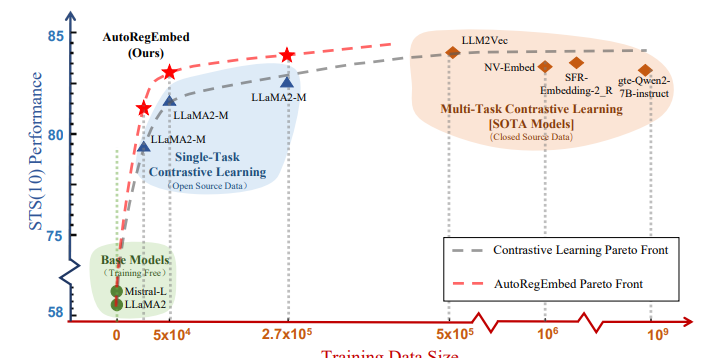
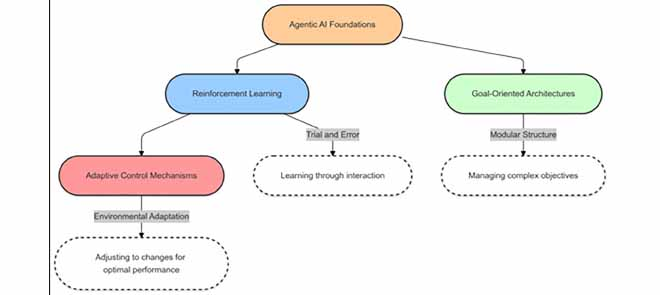
picture

diff --git a/research.md b/research.md
@@ -50,7 +50,6 @@
     - [Utilité principale](#utilité-principale)
     - [Fonctionnalités](#fonctionnalités)
     - [Spécificité d’implémentation](#spécificité-dimplémentation)
-    - [Exemple : agent ReAct avec LangChain](#exemple--agent-react-avec-langchain)
     - [Exemple : workflow multi‑turn avec LangGraph](#exemple--workflow-multiturn-avec-langgraph)
   - [CrewAI](#crewai)
     - [Présentation](#présentation-1)
@@ -64,15 +63,11 @@
     - [Présentation](#présentation-2)
     - [Utilité principale](#utilité-principale-2)
     - [Fonctionnalités](#fonctionnalités-2)
-    - [Spécificité d’implémentation](#spécificité-dimplémentation-2)
-    - [Exemple conceptuel : orchestrateur multi‑agent](#exemple-conceptuel--orchestrateur-multiagent)
   - [LlamaIndex](#llamaindex)
     - [Présentation](#présentation-3)
-    - [Utilité principale](#utilité-principale-3)
     - [Fonctionnalités](#fonctionnalités-3)
-    - [Spécificité d’implémentation](#spécificité-dimplémentation-3)
+    - [Spécificité d’implémentation](#spécificité-dimplémentation-2)
     - [Exemple : index vectoriel simple avec LlamaIndex](#exemple--index-vectoriel-simple-avec-llamaindex)
-  - [Comparaison d’usage](#comparaison-dusage)
   - [Références](#références)
 
 ***
@@ -243,7 +238,6 @@ Dans les approches de type **GraphRAG**, les documents sont analysés pour produ
 
 ### Fonctionnement
 Le pipeline inclut généralement l’extraction guidée par LLM, la normalisation des entités, la détection de communautés, la génération de résumés structurés, puis la récupération ciblée au moment de la requête. Cette approche est puissante, mais elle dépend fortement de la qualité des prompts, des stratégies de consolidation et des étapes de validation appliquées au graphe produit. Dans un cadre multi‑agent comme CrewAI, il est possible de répartir ces rôles entre agents spécialisés (extraction, détection de communautés, validation, génération de résumés) afin de limiter les erreurs massives.
-![alt text](image-2.png)
 
 ## Indexation par graphe
 
@@ -290,72 +284,37 @@ Les frameworks agentiques jouent un rôle central dans la mise en œuvre d’ass
 
 ## Vue d’ensemble
 
-| Framework        | Utilité principale                                                       | Fonctionnalités marquantes                                                  | Spécificité d’implémentation                                                                    | Intégration dans d’autres outils                                                 | Dernières évolutions visibles                                              |
-| ---------------- | ------------------------------------------------------------------------ | --------------------------------------------------------------------------- | ----------------------------------------------------------------------------------------------- | -------------------------------------------------------------------------------- | -------------------------------------------------------------------------- |
-| **LangChain**    | Construire des applications et agents LLM généralistes [1][5]            | Agents, tools, prompts, middleware, structured output [1][6][5]             | Approche surtout **programmatique**, orientée classes et objets Python/JS [7][5]                | Très intégré dans l’écosystème RAG, providers et plateformes LLM [2][8]          | Milestones v1.0 annoncés en avril 2026 [1]                                 |
-| **LangGraph**    | Orchestrer des workflows agentiques sous forme de graphes d’états [1][9] | State machine, boucles, transitions, persistance, human‑in‑the‑loop [10][9] | Définition d’un **graphe** de nœuds et de transitions en code [10][9]                           | Souvent utilisé avec LangChain comme moteur d’exécution contrôlé [1][10]         | Intégré à la trajectoire v1.0 de LangChain/LangGraph en 2026 [1]           |
-| **CrewAI**       | Concevoir des équipes d’agents collaboratifs [3][11]                     | Crews, agents, tasks, flows, mémoire, délégation [3][12][13]                | Forte orientation **YAML + fichiers séparés**, avec config des agents et tâches [12][11][13]    | Utilisé avec outils de recherche, RAG, LlamaIndex et pipelines métier [2][12]    | Documentation active et enrichie en continu en 2025–2026 [3][12]           |
-| **Magentic‑One** | Système multi‑agent généraliste pour tâches complexes [4][14]            | Orchestrateur central, agents spécialisés, web, fichiers, code [4][14]      | Architecture pilotée par un **orchestrateur** multi‑turn au‑dessus d’agents spécialisés [4][14] | Principalement via l’écosystème Microsoft/AutoGen [4][14]                        | Présentation officielle Microsoft en 2025, prépublication fin 2024 [4][14] |
-| **LlamaIndex**   | Connecter les données au LLM pour le retrieval et le RAG [15][8]         | Loaders, parsers, indexes, query engines, graph stores [15][8]              | Approche centrée sur les **indices** et moteurs de requête [15][8]                              | Souvent utilisé comme couche RAG sous LangChain, CrewAI ou agents custom [15][8] | Documentation maintenue activement jusqu’en 2026 [15]                      |
+| Framework        | Utilité principale                                                | Fonctionnalités marquantes                                          | Spécificité d’implémentation                                                            | Intégration dans d’autres outils                                         | Dernières évolutions visibles                                      |
+| ---------------- | ----------------------------------------------------------------- | ------------------------------------------------------------------- | --------------------------------------------------------------------------------------- | ------------------------------------------------------------------------ | ------------------------------------------------------------------ |
+| **LangChain**    | Construire des applications et agents LLM généralistes            | Agents, tools, prompts, middleware, structured output               | Approche surtout **programmatique**, orientée classes et objets Python/JS               | Très intégré dans l’écosystème RAG, providers et plateformes LLM         | Milestones v1.0 annoncés en avril 2026                             |
+| **LangGraph**    | Orchestrer des workflows agentiques sous forme de graphes d’états | State machine, boucles, transitions, persistance, human‑in‑the‑loop | Définition d’un **graphe** de nœuds et de transitions en code                           | Souvent utilisé avec LangChain comme moteur d’exécution contrôlé         | Intégré à la trajectoire v1.0 de LangChain/LangGraph en 2026       |
+| **CrewAI**       | Concevoir des équipes d’agents collaboratifs                      | Crews, agents, tasks, flows, mémoire, délégation                    | Forte orientation **YAML + fichiers séparés**, avec config des agents et tâches         | Utilisé avec outils de recherche, RAG, LlamaIndex et pipelines métier    | Documentation active et enrichie en continu en 2025–2026           |
+| **Magentic‑One** | Système multi‑agent généraliste pour tâches complexes             | Orchestrateur central, agents spécialisés, web, fichiers, code      | Architecture pilotée par un **orchestrateur** multi‑turn au‑dessus d’agents spécialisés | Principalement via l’écosystème Microsoft/AutoGen                        | Présentation officielle Microsoft en 2025, prépublication fin 2024 |
+| **LlamaIndex**   | Connecter les données au LLM pour le retrieval et le RAG          | Loaders, parsers, indexes, query engines, graph stores              | Approche centrée sur les **indices** et moteurs de requête                              | Souvent utilisé comme couche RAG sous LangChain, CrewAI ou agents custom | Documentation maintenue activement jusqu’en 2026                   |
 
 ## LangChain et LangGraph
 
 ### Présentation
 
-**LangChain** est un framework généraliste destiné à construire des applications à base de LLM, en particulier des agents capables d’utiliser des outils, de suivre un prompt structuré et de gérer des interactions multi‑étapes [1][5]. Il sert de couche d’abstraction pour relier modèles, outils, prompts, middlewares et sorties structurées dans une même application [1][6].
+**LangChain** est un framework généraliste destiné à construire des applications à base de LLM, en particulier des agents capables d’utiliser des outils, de suivre un prompt structuré et de gérer des interactions multi‑étapes . Il sert de couche d’abstraction pour relier modèles, outils, prompts, middlewares et sorties structurées dans une même application .
 
-**LangGraph** complète cette logique en fournissant un moteur d’exécution orienté **graphe d’états**, où chaque nœud représente une étape de traitement et chaque arête une transition conditionnelle [10][9]. Il est particulièrement adapté aux workflows agentiques nécessitant des boucles, de la persistance d’état, une reprise après erreur ou une validation humaine intermédiaire [10][9].
+**LangGraph** complète cette logique en fournissant un moteur d’exécution orienté **graphe d’états**, où chaque nœud représente une étape de traitement et chaque arête une transition conditionnelle . Il est particulièrement adapté aux workflows agentiques nécessitant des boucles, de la persistance d’état, une reprise après erreur ou une validation humaine intermédiaire .
 
 ### Utilité principale
 
-- **LangChain** convient bien aux assistants outillés, aux systèmes ReAct, aux chaînes de traitement simples ou aux applications LLM modulaires [1][5].
-- **LangGraph** est plus adapté lorsqu’il faut contrôler explicitement le déroulement d’un agent, modéliser un workflow déterministe ou semi‑agentique, ou construire un système **multi‑turn** persistant [16][10][9].
+- **LangChain** convient bien aux assistants outillés, aux systèmes ReAct, aux chaînes de traitement simples ou aux applications LLM modulaires .
+- **LangGraph** est plus adapté lorsqu’il faut contrôler explicitement le déroulement d’un agent, modéliser un workflow déterministe ou semi‑agentique, ou construire un système **multi‑turn** persistant .
 
 ### Fonctionnalités
 
-- Abstraction de modèles et de fournisseurs LLM [1][6].
-- Encapsulation des outils (*tools*) et appels externes [5].
-- Structured output, middleware, agents et observabilité [1][6].
-- Graphes d’états avec transitions, cycles et points de contrôle dans LangGraph [10][9].
+- Abstraction de modèles et de fournisseurs LLM .
+- Encapsulation des outils (*tools*) et appels externes .
+- Structured output, middleware, agents et observabilité .
+- Graphes d’états avec transitions, cycles et points de contrôle dans LangGraph .
 
 ### Spécificité d’implémentation
 
-LangChain se programme principalement en **Python ou JavaScript**, avec des objets, classes, fonctions et exécuteurs d’agents [7][5]. LangGraph, de son côté, oblige à penser l’architecture comme un **graphe** : on définit un état partagé, des nœuds de calcul, puis les conditions de passage d’un nœud à l’autre [10][9]. Cela donne généralement plus de contrôle qu’un agent autonome classique, mais demande une modélisation plus explicite [16][9].
-
-### Exemple : agent ReAct avec LangChain
-
-```python
-from langchain.agents import AgentExecutor, create_react_agent
-from langchain_core.prompts import PromptTemplate
-
-prompt = PromptTemplate.from_template("""
-Answer the following questions as best you can.
-You have access to the following tools:
-
-{tools}
-
-Use the following format:
-Question: the input question you must answer
-Thought: you should always think about what to do
-Action: the action to take, should be one of [{tool_names}]
-Action Input: the input to the action
-Observation: the result of the action
-... (this Thought/Action/Action Input/Observation can repeat N times)
-Thought: I now know the final answer
-Final Answer: the final answer to the original input question
-
-Question: {input}
-Thought:{agent_scratchpad}
-""")
-
-agent = create_react_agent(llm, tools, prompt)
-agent_executor = AgentExecutor(agent=agent, tools=tools, verbose=True)
-
-result = agent_executor.invoke({"input": "Quels sont les congés parentaux applicables ?"})
-print(result)
-```
-
-Cet exemple suit le pattern **ReAct** (*Reasoning + Acting*), dans lequel l’agent alterne raisonnement intermédiaire, appel d’outil et observation avant de produire une réponse finale [5][17].
+LangChain se programme principalement en **Python ou JavaScript**, avec des objets, classes, fonctions et exécuteurs d’agents. LangGraph, de son côté, oblige à penser l’architecture comme un **graphe** : on définit un état partagé, des nœuds de calcul, puis les conditions de passage d’un nœud à l’autre . Cela donne généralement plus de contrôle qu’un agent autonome classique, mais demande une modélisation plus explicite .
 
 ### Exemple : workflow multi‑turn avec LangGraph
 
@@ -401,7 +360,7 @@ Ce type de définition illustre bien l’approche **event‑driven / stateful** 
 
 ### Présentation
 
-CrewAI est un framework orienté **multi‑agents collaboratifs**, dans lequel on conçoit une **équipe** d’agents spécialisés appelés à coopérer sur une tâche commune [3][12][11]. Sa logique est plus organisationnelle que celle de LangChain : au lieu de raisonner d’abord en termes de chaînes ou de classes, on raisonne en termes de **rôles**, **missions**, **tâches** et **équipes** .
+CrewAI est un framework orienté **multi‑agents collaboratifs**, dans lequel on conçoit une **équipe** d’agents spécialisés appelés à coopérer sur une tâche commune . Sa logique est plus organisationnelle que celle de LangChain : au lieu de raisonner d’abord en termes de chaînes ou de classes, on raisonne en termes de **rôles**, **missions**, **tâches** et **équipes** .
 
 ### Utilité principale
 
@@ -412,7 +371,7 @@ CrewAI est particulièrement pertinent pour les scénarios où plusieurs compét
 - rédaction,
 - génération de rapport ou de support métier .
 
-Dans un assistant RH, il peut servir à séparer un agent de recherche réglementaire, un agent de vérification des politiques internes et un agent de formulation finale .
+
 
 ### Fonctionnalités
 
@@ -506,13 +465,13 @@ class HrAssistantCrew:
         )
 ```
 
-Cette approche rend CrewAI particulièrement lisible pour des architectures où l’on souhaite représenter explicitement une **équipe** d’agents et leur répartition de responsabilités [12][11][13].
+Cette approche rend CrewAI particulièrement lisible pour des architectures où l’on souhaite représenter explicitement une **équipe** d’agents et leur répartition de responsabilités .
 
 ## Magentic‑One
 
 ### Présentation
 
-Magentic‑One est un système multi‑agent généraliste proposé par Microsoft pour résoudre des tâches complexes impliquant plusieurs tours d’interaction, des outils variés et une capacité de replanification [4][14]. Il repose sur un **orchestrateur central** qui coordonne plusieurs agents spécialisés selon l’état courant de la tâche [4][14].
+Magentic‑One est un système multi‑agent généraliste proposé par Microsoft pour résoudre des tâches complexes impliquant plusieurs tours d’interaction, des outils variés et une capacité de replanification . Il repose sur un **orchestrateur central** qui coordonne plusieurs agents spécialisés selon l’état courant de la tâche .
 
 ### Utilité principale
 
@@ -521,59 +480,28 @@ Magentic‑One est pensé pour des tâches ouvertes, longues et multi‑étapes,
 - consultation de fichiers,
 - analyse,
 - écriture et exécution de code,
-- synthèse à partir de plusieurs sources [4][14].
+- synthèse à partir de plusieurs sources .
 
-Dans un projet d’assistant RH, il représente surtout une **référence architecturale** pour penser un système où un orchestrateur pilote plusieurs sous‑agents métiers ou techniques [4].
 
 ### Fonctionnalités
 
-- Orchestrateur central chargé de planifier, superviser et replanifier [4][14].
-- Agents spécialisés pour le web, les fichiers et le code [4].
-- Fonctionnement **multi‑turn**, où les agents échangent des résultats intermédiaires avant convergence [4][14].
+- Orchestrateur central chargé de planifier, superviser et replanifier .
+- Agents spécialisés pour le web, les fichiers et le code .
+- Fonctionnement **multi‑turn**, où les agents échangent des résultats intermédiaires avant convergence .
 
-### Spécificité d’implémentation
-
-Magentic‑One n’est pas seulement une bibliothèque légère ; c’est plutôt une **architecture de référence** bâtie dans l’écosystème Microsoft autour d’AutoGen [4][14]. Son intérêt dans un état de l’art est surtout conceptuel : il montre comment structurer un système agentique avec un planificateur global et des agents spécialisés coopérants [4].
-
-### Exemple conceptuel : orchestrateur multi‑agent
-
-```python
-task = "Analyser une demande RH complexe et produire une réponse fiable"
-
-orchestrator.plan(task)
-
-while not orchestrator.is_complete():
-    next_agent = orchestrator.select_agent()
-    observation = next_agent.execute(orchestrator.current_subtask())
-    orchestrator.update_state(observation)
-
-final_answer = orchestrator.summarize()
-```
-
-Ce pseudo‑code illustre la logique **multi‑turn** de Magentic‑One : planification, délégation, observation, mise à jour du contexte, puis replanification éventuelle [4][14].
 
 ## LlamaIndex
 
 ### Présentation
 
-LlamaIndex est un framework centré sur la **connexion des données au LLM**, avec un accent particulier sur l’ingestion documentaire, l’indexation et le retrieval [15][8]. Là où LangChain et CrewAI s’intéressent surtout à l’orchestration d’agents ou de workflows, LlamaIndex se concentre sur la construction d’une couche **RAG** robuste et interrogeable [15][8].
-
-### Utilité principale
-
-LlamaIndex est particulièrement utile lorsque le problème principal consiste à :
-- charger des documents,
-- les découper en unités exploitables,
-- les indexer,
-- puis interroger ce corpus à travers un moteur de recherche sémantique ou structuré [15][8].
-
-Dans un assistant RH, cela correspond directement à l’intégration de politiques internes, règlements, notes de service, FAQ et corpus métiers [15].
+LlamaIndex est un framework centré sur la **connexion des données au LLM**, avec un accent particulier sur l’ingestion documentaire, l’indexation et le retrieval . Là où LangChain et CrewAI s’intéressent surtout à l’orchestration d’agents ou de workflows, LlamaIndex se concentre sur la construction d’une couche **RAG** robuste et interrogeable .
 
 ### Fonctionnalités
 
-- Loaders pour sources variées [15].
-- Parsers et découpage en *nodes* [15][8].
-- Indices vectoriels, hiérarchiques ou orientés graphe [15][8].
-- Query engines et outils de synthèse de réponse [15][8].
+- Loaders pour sources variées .
+- Parsers et découpage en *nodes* .
+- Indices vectoriels, hiérarchiques ou orientés graphe .
+- Query engines et outils de synthèse de réponse .
 
 ### Spécificité d’implémentation
 
@@ -581,9 +509,9 @@ LlamaIndex s’utilise souvent en chaîne :
 1. chargement des données,
 2. parsing,
 3. création d’un index,
-4. exposition d’un `query_engine` ou `retriever` [15][8].
+4. exposition d’un `query_engine` ou `retriever` .
 
-Il peut être utilisé seul pour du RAG, ou servir de **couche documentaire** sous un agent LangChain, LangGraph ou CrewAI [15][8].
+Il peut être utilisé seul pour du RAG, ou servir de **couche documentaire** sous un agent LangChain, LangGraph ou CrewAI .
 
 ### Exemple : index vectoriel simple avec LlamaIndex
 
@@ -598,18 +526,6 @@ response = query_engine.query("Quelle est la procédure de demande de congés ?"
 
 print(response)
 ```
-
-Cet exemple montre la logique centrale de LlamaIndex : transformer un corpus en index interrogeable par le LLM.
-
-## Comparaison d’usage
-
-| Cas d’usage                                       | Framework le plus naturel | Justification                                                |
-| ------------------------------------------------- | ------------------------- | ------------------------------------------------------------ |
-| Agent simple avec outils                          | **LangChain** [5][17]     | Rapide à mettre en place, bien adapté au pattern ReAct       |
-| Workflow contrôlé, état persistant, multi‑turn    | **LangGraph** [10][9]     | Représentation explicite des états et transitions            |
-| Équipe d’agents spécialisée par rôle              | **CrewAI** [3][12][11]    | Bonne séparation entre agents, tâches et crew                |
-| Référence MAS avancée / orchestrateur généraliste | **Magentic‑One** [4][14]  | Intéressant comme modèle architectural                       |
-| Couche documentaire / retrieval / RAG             | **LlamaIndex** [15][8]    | Très fort pour l’ingestion, les indices et les query engines |
 
 ## Références
 -- [What Is Model Context Protocol (MCP)?](https://www.paloaltonetworks.com/cyberpedia/what-is-model-context-protocol-mcp)
